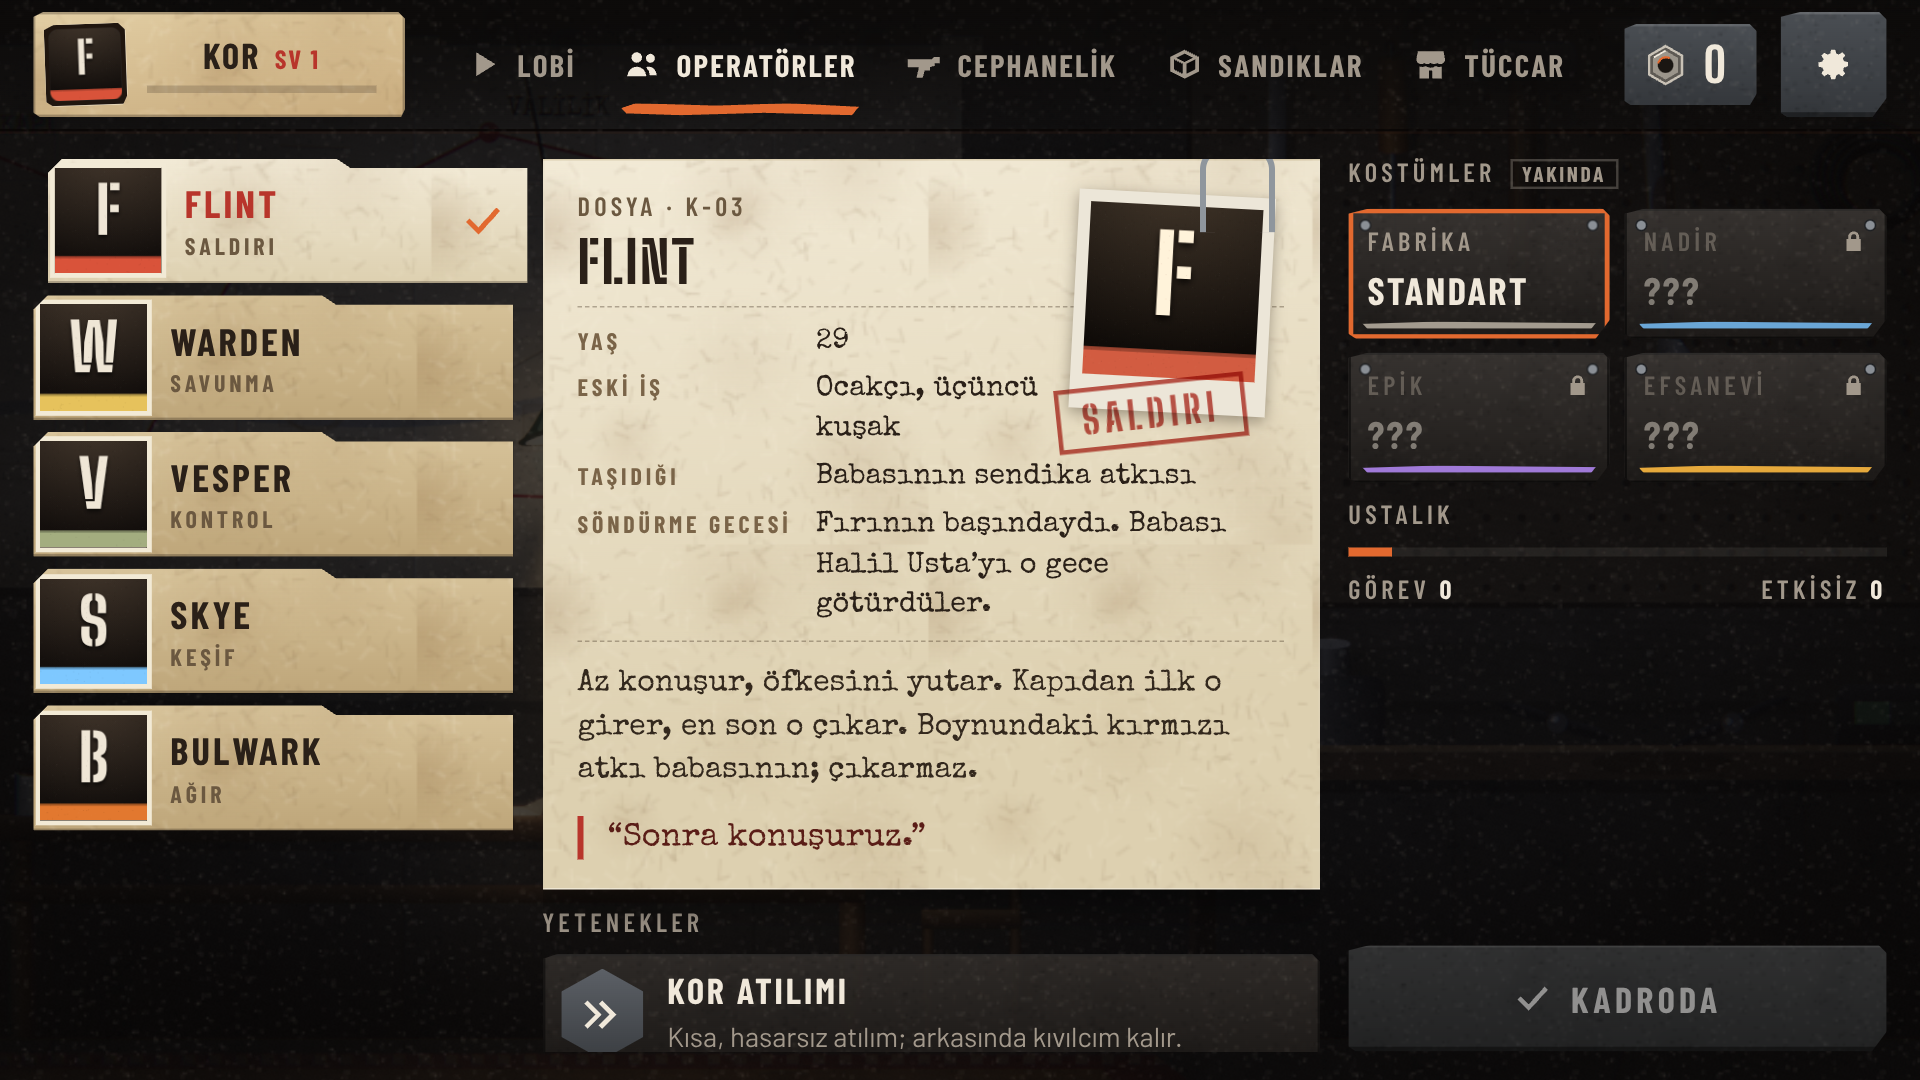
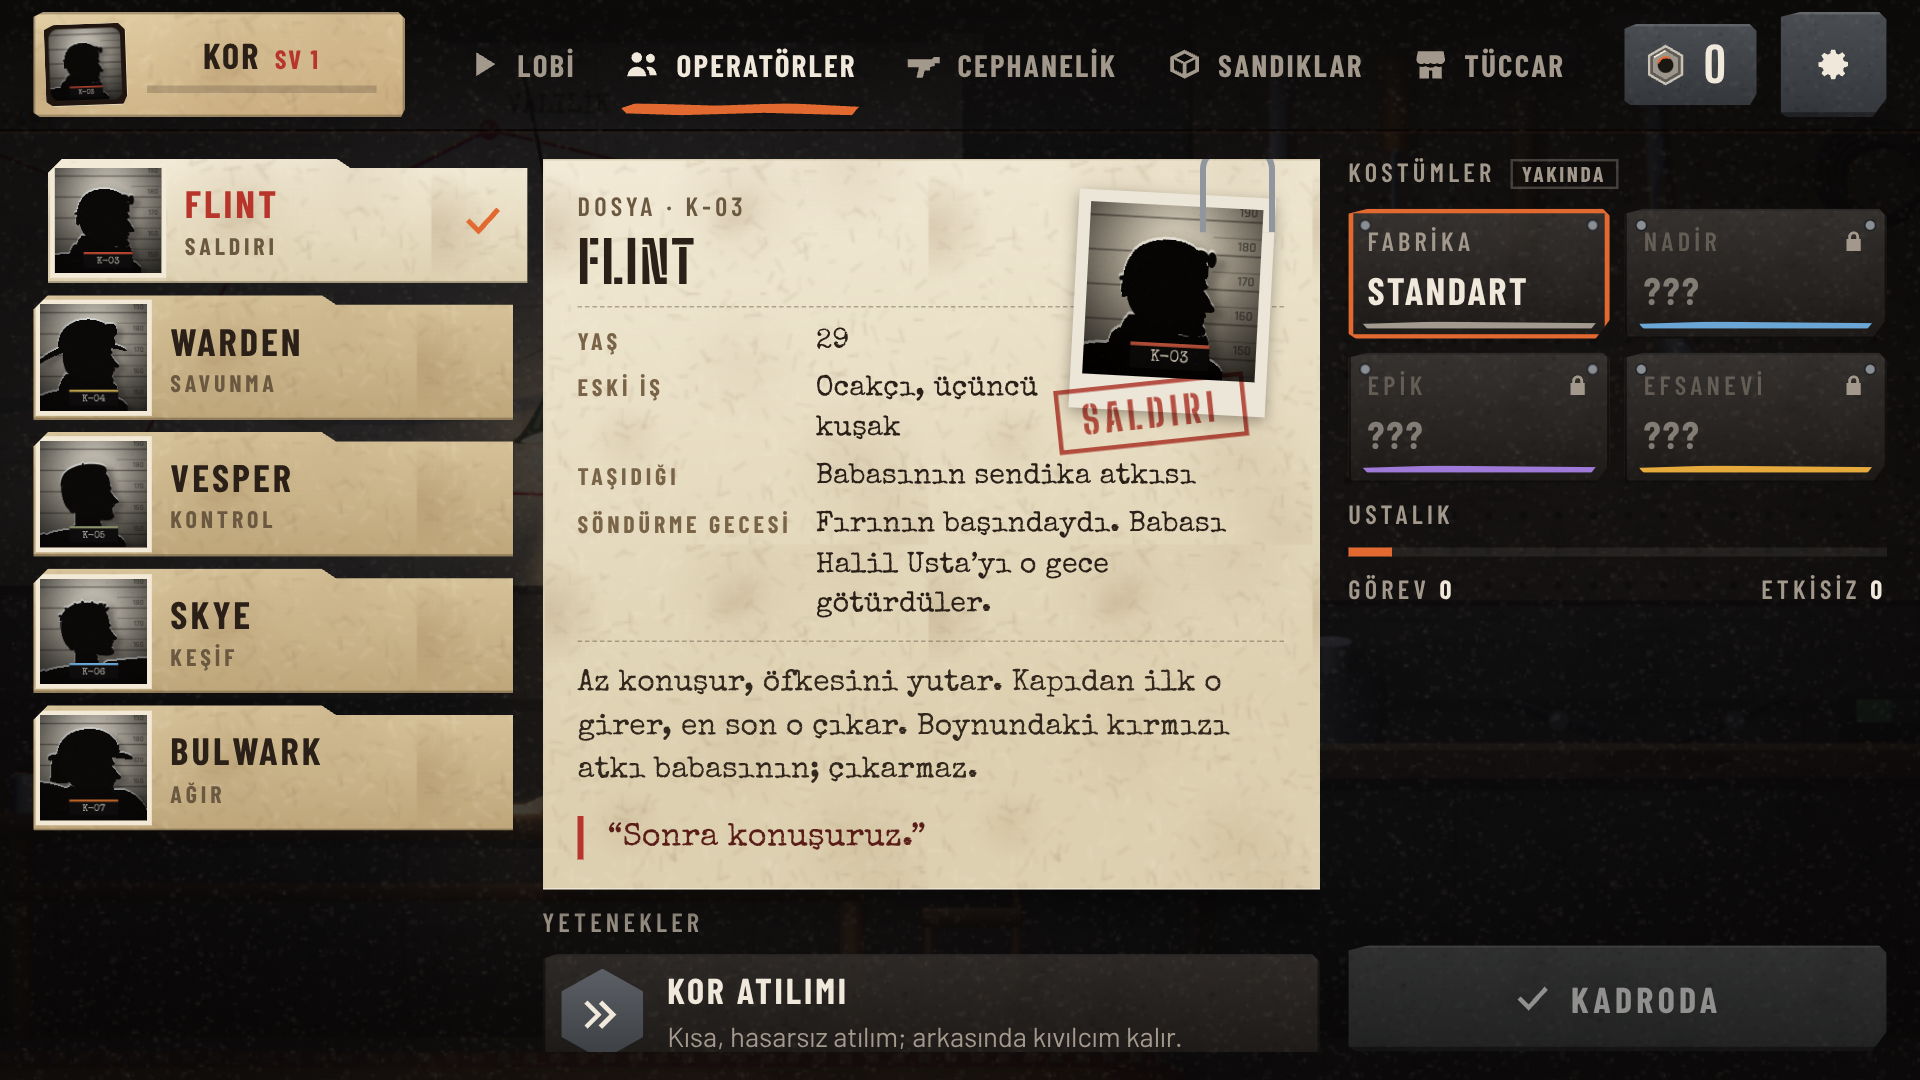
Menus: police-file silhouettes instead of letters (docs §10.39)
The letter badges become file photos: each operator's own head and
shoulders, from their rig, in black against a lineup wall with its height
lines, one hard lamp above, a soft shadow on the wall and a cold rim on
the top edge; a board with the case number (K-03 to K-07) and a strip of
the operator's colour on the chest; dark corners and grain like an old
print. HAWK, who has no rig, gets a hand-drawn outline (flat cap, beard,
collar, a cigarette and its smoke) and the board M-01; the trader screen
shows that outline under the stall's bulb beside his crates. Menu store
screenshots retaken.

Claude-Session: https://claude.ai/code/session_01JSKFimPm6TFEMcTpmhoww4

Changed region(s): [[0.0, 0.1528, 0.0938, 0.7639], [0.5625, 0.1833, 0.6562, 0.3667], [0.0, 0.0, 0.0625, 0.0917]]

diff --git a/public/game/js/ui/portraits.js b/public/game/js/ui/portraits.js
@@ -25,43 +25,102 @@ function copy(src, cssW, cssH) {
   return c;
 }
 
-// The menus show no faces (docs §10.39): an operator is a badge, the
-// callsign's first letter stencilled on a dark plate with a stripe of their
-// colour. The painted faces are still here (facePortrait) for the dev sheets.
-const BADGE = { vex: ['F', '#d9533a'], hale: ['W', '#e6c25c'], morrow: ['V', '#a3ad7f'], kite: ['S', '#7ec8ff'], brick: ['B', '#e2782f'], hawk: ['H', '#e0a24a'] };
+// The menus show no faces (docs §10.39): an operator is a police file
+// photo of a silhouette — their own head and shoulders in black against a
+// lineup wall with its height lines, one hard lamp from above, the case
+// number on a board and a strip of their colour. The painted faces are
+// still here (facePortrait) for the dev sheets.
+const FILE = { vex: ['K-03', '#d9533a'], hale: ['K-04', '#e6c25c'], morrow: ['K-05', '#a3ad7f'], kite: ['K-06', '#7ec8ff'], brick: ['K-07', '#e2782f'], hawk: ['M-01', '#e0a24a'] };
 export function avatar(id, px = 44) {
-  const key = `b:${id}:${px}:${dpr()}`;
-  if (!cache.has(key)) cache.set(key, paintBadge(...(BADGE[id] || ['?', '#a39b8f']), Math.round(px * dpr())));
+  const key = `m:${id}:${px}:${dpr()}`;
+  if (!cache.has(key)) cache.set(key, paintMugshot(id, Math.round(px * dpr())));
   return copy(cache.get(key), px, px);
+}
+// HAWK has no rig: his outline drawn by hand, facing right, in a 1 × 1 box —
+// the flat cap, the beard, the coat's collar, the cigarette
+function hawkShape(g, x, y, s) {
+  const P = (u, v) => [x + u * s, y + v * s];
+  g.beginPath(); g.moveTo(...P(0.1, 1.02));
+  g.lineTo(...P(0.12, 0.86));
+  g.bezierCurveTo(...P(0.14, 0.78), ...P(0.22, 0.74), ...P(0.3, 0.72));
+  g.bezierCurveTo(...P(0.3, 0.66), ...P(0.27, 0.6), ...P(0.27, 0.54));
+  g.bezierCurveTo(...P(0.26, 0.46), ...P(0.27, 0.4), ...P(0.29, 0.36));
+  g.bezierCurveTo(...P(0.3, 0.27), ...P(0.42, 0.23), ...P(0.56, 0.25));
+  g.bezierCurveTo(...P(0.66, 0.27), ...P(0.72, 0.31), ...P(0.74, 0.35));
+  g.lineTo(...P(0.85, 0.385)); g.lineTo(...P(0.845, 0.405)); g.lineTo(...P(0.71, 0.405));
+  g.bezierCurveTo(...P(0.71, 0.44), ...P(0.715, 0.47), ...P(0.73, 0.5));
+  g.lineTo(...P(0.775, 0.556)); g.lineTo(...P(0.738, 0.575));
+  g.bezierCurveTo(...P(0.745, 0.6), ...P(0.75, 0.625), ...P(0.735, 0.645));
+  g.bezierCurveTo(...P(0.725, 0.69), ...P(0.685, 0.72), ...P(0.625, 0.735));
+  g.bezierCurveTo(...P(0.6, 0.76), ...P(0.6, 0.79), ...P(0.64, 0.82));
+  g.bezierCurveTo(...P(0.74, 0.85), ...P(0.86, 0.9), ...P(0.92, 1.02));
+  g.closePath(); g.fill();
+  // the cigarette
+  g.save(); g.lineCap = 'round'; g.lineWidth = s * 0.016; g.strokeStyle = g.fillStyle;
+  g.beginPath(); g.moveTo(...P(0.735, 0.622)); g.lineTo(...P(0.805, 0.636)); g.stroke(); g.restore();
+}
+function hawkSmoke(g, x, y, s) {
+  const P = (u, v) => [x + u * s, y + v * s];
+  g.save(); g.fillStyle = 'rgba(255,120,50,0.95)'; g.beginPath(); g.arc(...P(0.81, 0.637), s * 0.011, 0, Math.PI * 2); g.fill();
+  g.strokeStyle = 'rgba(225,230,235,0.32)'; g.lineWidth = s * 0.012; g.lineCap = 'round';
+  g.beginPath(); g.moveTo(...P(0.81, 0.625)); g.bezierCurveTo(...P(0.85, 0.56), ...P(0.78, 0.5), ...P(0.83, 0.43)); g.bezierCurveTo(...P(0.87, 0.37), ...P(0.82, 0.31), ...P(0.86, 0.25)); g.stroke();
+  g.restore();
+}
+function paintMugshot(id, size) {
+  const [no, color] = FILE[id] || ['K-00', '#a39b8f'];
+  const c = canvas(size, size), g = c.getContext('2d');
+  // the lineup wall: pale where the lamp hits it, falling to dark at the edges
+  const wall = g.createRadialGradient(size * 0.5, -size * 0.15, size * 0.05, size * 0.5, size * 0.25, size * 1.05);
+  wall.addColorStop(0, '#d2cdc1'); wall.addColorStop(0.5, '#8e897f'); wall.addColorStop(1, '#2c2925');
+  g.fillStyle = wall; g.fillRect(0, 0, size, size);
+  // its height lines, every other one long, numbered when there is room
+  const lw = Math.max(1, size * 0.007), labels = ['190', '180', '170', '160', '150'];
+  g.font = `600 ${Math.max(7, Math.round(size * 0.075))}px Rajdhani, 'Barlow Condensed', sans-serif`; g.textAlign = 'right'; g.textBaseline = 'bottom';
+  for (let i = 0; i <= 9; i++) {
+    const y = size * (0.07 + i * 0.1), major = i % 2 === 0;
+    g.fillStyle = `rgba(26,22,19,${major ? 0.42 : 0.26})`;
+    g.fillRect(major ? 0 : size * 0.72, y, size, major ? lw * 1.5 : lw);
+    if (major && size >= 96 && labels[i / 2]) { g.fillStyle = 'rgba(26,22,19,0.55)'; g.fillText(labels[i / 2], size * 0.97, y - lw); }
+  }
+  // the figure's shape: head and shoulders, from the operator's own rig
+  const fig = canvas(size, size), fg = fig.getContext('2d');
+  if (id === 'hawk') { fg.fillStyle = '#000'; hawkShape(fg, size * 0.02, size * 0.1, size * 0.96); }
+  else {
+    const op = OPS[id], pose = op.pose, z = size / 18, J = solve(pose), [nx, ny] = J.neck;
+    fg.translate(size * 0.5 - (nx + 1.2) * z, size * 0.6 - (ny - 4.2) * z); fg.scale(z, z);
+    drawFigure(fg, op, pose);
+  }
+  const ink = (src, colr) => { const o = canvas(size, size), og = o.getContext('2d'); og.drawImage(src, 0, 0); og.globalCompositeOperation = 'source-in'; og.fillStyle = colr; og.fillRect(0, 0, size, size); return o; };
+  const sil = ink(fig, '#0b0908');
+  // its shadow thrown on the wall, soft, down and to the right
+  g.save(); g.globalAlpha = 0.32; g.filter = `blur(${(size * 0.025).toFixed(1)}px)`; g.drawImage(sil, size * 0.06, size * 0.03); g.restore();
+  // the lamp's cold rim along the top edges, then the shape itself
+  const r = Math.max(1, size * 0.016), rim = ink(fig, 'rgba(232,238,244,0.6)');
+  g.drawImage(rim, -r * 0.25, -r);
+  g.drawImage(sil, 0, 0);
+  if (id === 'hawk') hawkSmoke(g, size * 0.02, size * 0.1, size * 0.96);
+  // the board with the case number, the strip of colour under it
+  if (size >= 60) {
+    const bw = size * 0.46, bh = size * 0.15, bx = size * 0.5 - bw / 2, by = size * 0.8;
+    g.fillStyle = '#121010'; g.fillRect(bx, by, bw, bh);
+    g.fillStyle = color; g.fillRect(bx, by, bw, Math.max(1, bh * 0.14));
+    g.fillStyle = '#ece6da'; g.textAlign = 'center'; g.textBaseline = 'middle';
+    g.font = `400 ${Math.round(bh * 0.62)}px 'Special Elite', 'Courier New', monospace`;
+    g.fillText(no, size * 0.5, by + bh * 0.58);
+  } else { g.fillStyle = color; g.fillRect(0, size * 0.9, size, size * 0.1); }
+  // the lamp falls off at the corners; grain like an old print
+  const vg = g.createRadialGradient(size * 0.5, size * 0.38, size * 0.25, size * 0.5, size * 0.5, size * 0.8);
+  vg.addColorStop(0, 'rgba(0,0,0,0)'); vg.addColorStop(1, 'rgba(0,0,0,0.55)');
+  g.fillStyle = vg; g.fillRect(0, 0, size, size);
+  const rr = rng(no.charCodeAt(2) * 131 + size);
+  for (let i = 0; i < size * size * 0.03; i++) { g.fillStyle = rr() < 0.5 ? 'rgba(255,255,255,0.05)' : 'rgba(0,0,0,0.09)'; g.fillRect(rr() * size, rr() * size, 1, 1); }
+  return c;
 }
 // head and shoulders of an operator, as painted for the menus before §10.39
 export function facePortrait(id, px = 44) {
   const key = `a:${id}:${px}:${dpr()}`;
   if (!cache.has(key)) cache.set(key, paintAvatar(id, Math.round(px * dpr())));
   return copy(cache.get(key), px, px);
-}
-function paintBadge(letter, color, size) {
-  const c = canvas(size, size), g = c.getContext('2d');
-  // a soot-dark plate, warmer toward the bottom, a little light from above
-  const bg = g.createLinearGradient(0, 0, 0, size);
-  bg.addColorStop(0, '#221b16'); bg.addColorStop(1, '#100c0a');
-  g.fillStyle = bg; g.fillRect(0, 0, size, size);
-  const lit = g.createRadialGradient(size * 0.5, -size * 0.2, 0, size * 0.5, -size * 0.2, size * 1.1);
-  lit.addColorStop(0, 'rgba(255,214,170,0.14)'); lit.addColorStop(1, 'rgba(255,214,170,0)');
-  g.fillStyle = lit; g.fillRect(0, 0, size, size);
-  // the stripe of the operator's colour along the foot
-  g.fillStyle = color; g.fillRect(0, size * 0.84, size, size * 0.16);
-  g.fillStyle = 'rgba(0,0,0,0.25)'; g.fillRect(0, size * 0.84, size, Math.max(1, size * 0.02));
-  // the letter, stencilled
-  g.fillStyle = '#efe6d6'; g.textAlign = 'center'; g.textBaseline = 'middle';
-  g.font = `800 ${Math.round(size * 0.62)}px 'Big Shoulders Stencil', 'Big Shoulders', sans-serif`;
-  g.shadowColor = 'rgba(0,0,0,0.6)'; g.shadowBlur = size * 0.04; g.shadowOffsetY = size * 0.02;
-  g.fillText(letter, size * 0.5, size * 0.44);
-  g.shadowColor = 'transparent';
-  // grain, so it sits with the paper and paint around it
-  const r = rng(letter.charCodeAt(0) * 97 + size);
-  for (let i = 0; i < size * size * 0.02; i++) { g.fillStyle = r() < 0.5 ? 'rgba(255,255,255,0.035)' : 'rgba(0,0,0,0.08)'; g.fillRect(r() * size, r() * size, 1, 1); }
-  return c;
 }
 
 // Lit like the opening: the burning city behind, the fires low on the right,
@@ -147,24 +206,32 @@ export function crateArt(color, px = 96) {
 }
 
 // HAWK at his stall, `px` CSS pixels square
-// HAWK's stall for the trader screen (no face, docs §10.39): seized crates
-// stacked under a bare bulb, the market's dark behind
+// HAWK's stall for the trader screen (no face, docs §10.39): his outline
+// behind seized crates stacked under a bare bulb, the market's dark behind
 export function stallPic(px = 360) {
   const key = `s:${px}:${dpr()}`;
   if (!cache.has(key)) {
-    // wide, like the card it sits in; the crates to the right, clear of the name
+    // wide, like the card it sits in; HAWK under the bulb, his crates to the right
     const W = Math.round(px * dpr()), H = Math.round(W * 0.56), c = canvas(W, H), g = c.getContext('2d');
     const bg = g.createLinearGradient(0, 0, 0, H); bg.addColorStop(0, '#120e0c'); bg.addColorStop(1, '#261b13');
     g.fillStyle = bg; g.fillRect(0, 0, W, H);
-    const bx = W * 0.7, by = H * 0.14;
+    const bx = W * 0.47, by = H * 0.12;
     const bulb = g.createRadialGradient(bx, by, 0, bx, by, W * 0.55);
     bulb.addColorStop(0, 'rgba(255,196,120,0.5)'); bulb.addColorStop(0.35, 'rgba(255,150,70,0.15)'); bulb.addColorStop(1, 'rgba(255,150,70,0)');
     g.fillStyle = bulb; g.fillRect(0, 0, W, H);
     g.strokeStyle = 'rgba(30,24,20,0.9)'; g.lineWidth = Math.max(1, W * 0.004); g.beginPath(); g.moveTo(bx, 0); g.lineTo(bx, by - W * 0.02); g.stroke();
     g.fillStyle = '#ffe2b0'; g.beginPath(); g.ellipse(bx, by, W * 0.013, W * 0.018, 0, 0, Math.PI * 2); g.fill();
+    // HAWK himself, an outline behind his goods, the bulb rimming his cap and shoulder
+    { const hs = H * 0.94, hx = W * 0.08, hy = H * 0.1, o = canvas(W, H), og = o.getContext('2d');
+      // the bulb's pool on the wall behind him, so his outline reads against it
+      const pool = g.createRadialGradient(hx + hs * 0.55, hy + hs * 0.42, 0, hx + hs * 0.55, hy + hs * 0.42, hs * 0.62);
+      pool.addColorStop(0, 'rgba(196,170,138,0.62)'); pool.addColorStop(0.6, 'rgba(150,120,90,0.25)'); pool.addColorStop(1, 'rgba(150,120,90,0)');
+      g.fillStyle = pool; g.fillRect(0, 0, W, H);
+      og.fillStyle = 'rgba(255,200,140,0.8)'; hawkShape(og, hx + W * 0.008, hy - W * 0.006, hs);
+      og.fillStyle = '#0a0807'; hawkShape(og, hx, hy, hs); g.drawImage(o, 0, 0); hawkSmoke(g, hx, hy, hs); }
     // three seized crates: two on the floor, one on top
     const crate = (band, x, y, k) => { const m = Math.round(W * k), cc = canvas(m, m); paintCrate(cc.getContext('2d'), m, { band, label: CRATE_LABEL[band] }); g.drawImage(cc, x * W - m / 2, y * H - m / 2); };
-    crate('#a39b8f', 0.56, 0.66, 0.36); crate('#6aa6d6', 0.84, 0.68, 0.34); crate('#e6a93c', 0.7, 0.4, 0.32);
+    crate('#a39b8f', 0.67, 0.7, 0.3); crate('#6aa6d6', 0.89, 0.72, 0.28); crate('#e6a93c', 0.79, 0.47, 0.27);
     cache.set(key, c);
   }
   const c = cache.get(key);

diff --git a/docs/design/3-karakterler.md b/docs/design/3-karakterler.md
@@ -712,11 +712,19 @@ Karakter tasarımları beğenilmedi; karar: **oyun dışında karakterler öne
   (`game/showcase.js hidePlayer`): lamba, harita, soba görünür. Seçilen
   operatör yalnız kameranın işareti olarak duruyor; lobiye girişte
   operatörün düşüşü, toz bulutu ve sarsıntı da yok.
-- Yüz resimleri yerine rozet (`ui/portraits.js avatar`): koyu bir plaka
-  üstünde çağrı adının ilk harfi (F, W, V, S, B; HAWK için H), altta
-  operatörün rengi. Lobideki seçim, üst çubuk, operatör listesi ve dosya,
-  hazırlık ekranı ve profil bu rozeti kullanıyor.
+- Yüz resimleri yerine **polis kayıt fotoğrafı** (`ui/portraits.js avatar`):
+  operatörün kendi kafa ve omuz silueti (kendi iskeletinden, kask, bere,
+  saç profilden tanınır) simsiyah, arkada boy çizgili sıralama duvarı
+  (150–190), tepeden tek sert lamba, duvara düşen yumuşak gölge, siluetin
+  üst kenarında soğuk bir ışık çizgisi; göğüste dosya numaralı levha (K-03…
+  K-07, operatör dosyalarındaki numaralar) ve üstünde operatörün rengi.
+  Kenarlar kararır, eski baskı gibi grenli. Lobideki seçim, üst çubuk,
+  operatör listesi ve dosya, hazırlık ekranı ve profil bunu kullanıyor.
+  (İlk deneme harfli rozetti; polisiye hava için siluet seçildi.)
+- HAWK'ın iskeleti yok: silueti elle çizildi (kasket, sakal, yaka, sigara,
+  dumanı), levhası M-01 (muhbir).
 - Tüccar ekranında HAWK'ın yüzü yerine tezgâh: çıplak ampulün altında
+  duvara vuran ışıkta HAWK'ın silueti, sigarasının dumanı, sağında
   istiflenmiş üç sandık (`stallPic`).
 - Mağaza kapağında beş operatör siyah siluet, arkalarındaki fırının kor
   ışığıyla çevrelenmiş (ayrıntı görünmüyor). Lobi ve operatörler ekran
